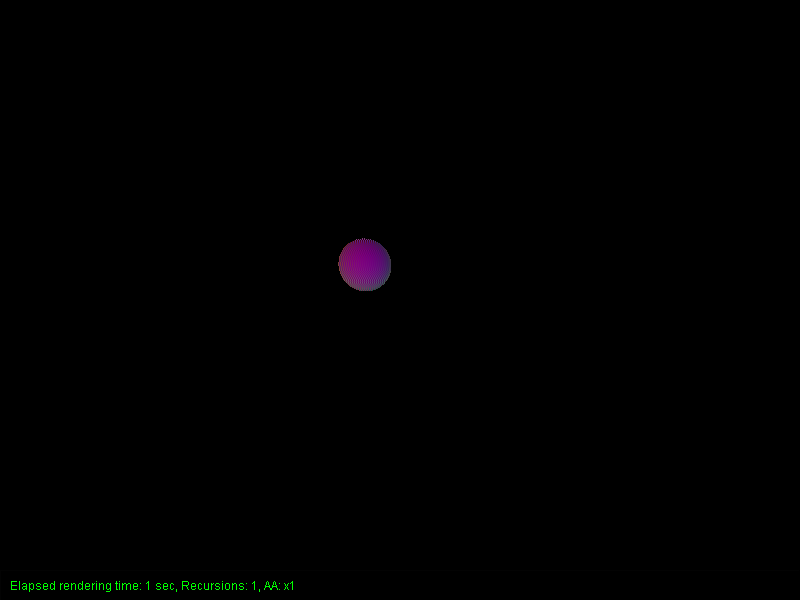
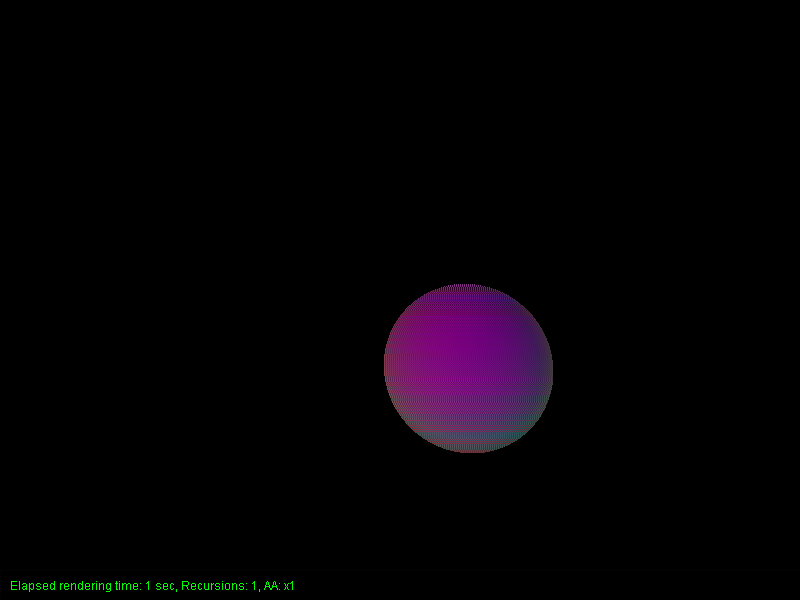
wip

Changed region(s): [[0.4688, 0.45, 0.7188, 0.78], [0.4062, 0.39, 0.5, 0.51]]

diff --git a/VCG_Raytracer/src/raytracer/Raytracer.java b/VCG_Raytracer/src/raytracer/Raytracer.java
@@ -104,7 +104,8 @@ public class Raytracer {
             Vec3 rayDefinition = ray.getStartPoint().add(ray.getDirection().multScalar(ray.getT()));
             intersection.setIntersectionPoint(shape.getTransformMatrix().multVec3(rayDefinition, true));
             intersection.setNormal(intersection.getIntersectionPoint().sub(shape.getCenter()));
-            intersection.setDistance(rayDefinition.length());
+            intersection.setDistance(intersection.getIntersectionPoint().sub(ray.getStartPoint()).length());
+            //System.out.println(intersection.getDistance());
         }
         return intersection;
     }
@@ -122,7 +123,6 @@ public class Raytracer {
         ray.setT(rayTValue);
         intersection.setIntersectionPoint(ray.getStartPoint().add(ray.getDirection().multScalar(ray.getT())));
         intersection.setNormal(intersection.getIntersectionPoint().sub(shape.getCenter()));
-
         return intersection;
     }
 
@@ -145,10 +145,8 @@ public class Raytracer {
         Vec3 lightVector;
         RgbColor pixelColor = null;
         Intersection intersection = null;
-        Shape nearestShape = null;
         ArrayList<Shape> shapeList = mScene.getObjects();
         ArrayList<Light> lightList = mScene.getLights();
-        float nearest = 99999;
 
         // Prepare materials
         Lambert lambert = new Lambert(RgbColor.WHITE, 0.5f, RgbColor.RED, 0.5f);
@@ -156,6 +154,8 @@ public class Raytracer {
         // Iterate through every pixel
         for(int y = 0; y < screenHeight; y++) {
             for (int x = 0; x < screenWidth; x++) {
+                float nearest = 99999;
+                Shape nearestShape = null;
 
                 // First transform pixel to world coordinates
                 deltaX = (float) ((2*(x+0.5)/screenWidth-1)*(width/2));
@@ -174,12 +174,12 @@ public class Raytracer {
 
                     double discriminant = shape.intersect(ray);
                     intersection = intersect(discriminant, ray, shape);
-                    if (intersection.getDistance() < nearest) {
-                        nearestShape = shape;
-                        nearest = intersection.getDistance();
-                        System.out.println("NEAREST : " + intersection.getDistance());
-                    } else {
-                        System.out.println(nearest);
+                    if (intersection.isHit()) {
+                        if (intersection.getDistance() <= nearest) {
+                            nearestShape = shape;
+                            nearest = intersection.getDistance();
+                            //System.out.println("NEAREST : " + intersection.getDistance());
+                        }
                     }
                 }
 

diff --git a/VCG_Raytracer/src/Main.java b/VCG_Raytracer/src/Main.java
@@ -135,8 +135,8 @@ public class Main {
     }
 
     private static void setupObjects(Scene renderScene) {
-        renderScene.createSphere(new Vec3(1,1,-5), 1.25f, "lambert");
         renderScene.createSphere(new Vec3(-1,-1,-8), 0.75f, "lambert");
+        renderScene.createSphere(new Vec3(1,1,-5), 1.25f, "lambert");
     }
 
     private static void setupCornellBox(Scene renderScene) {
